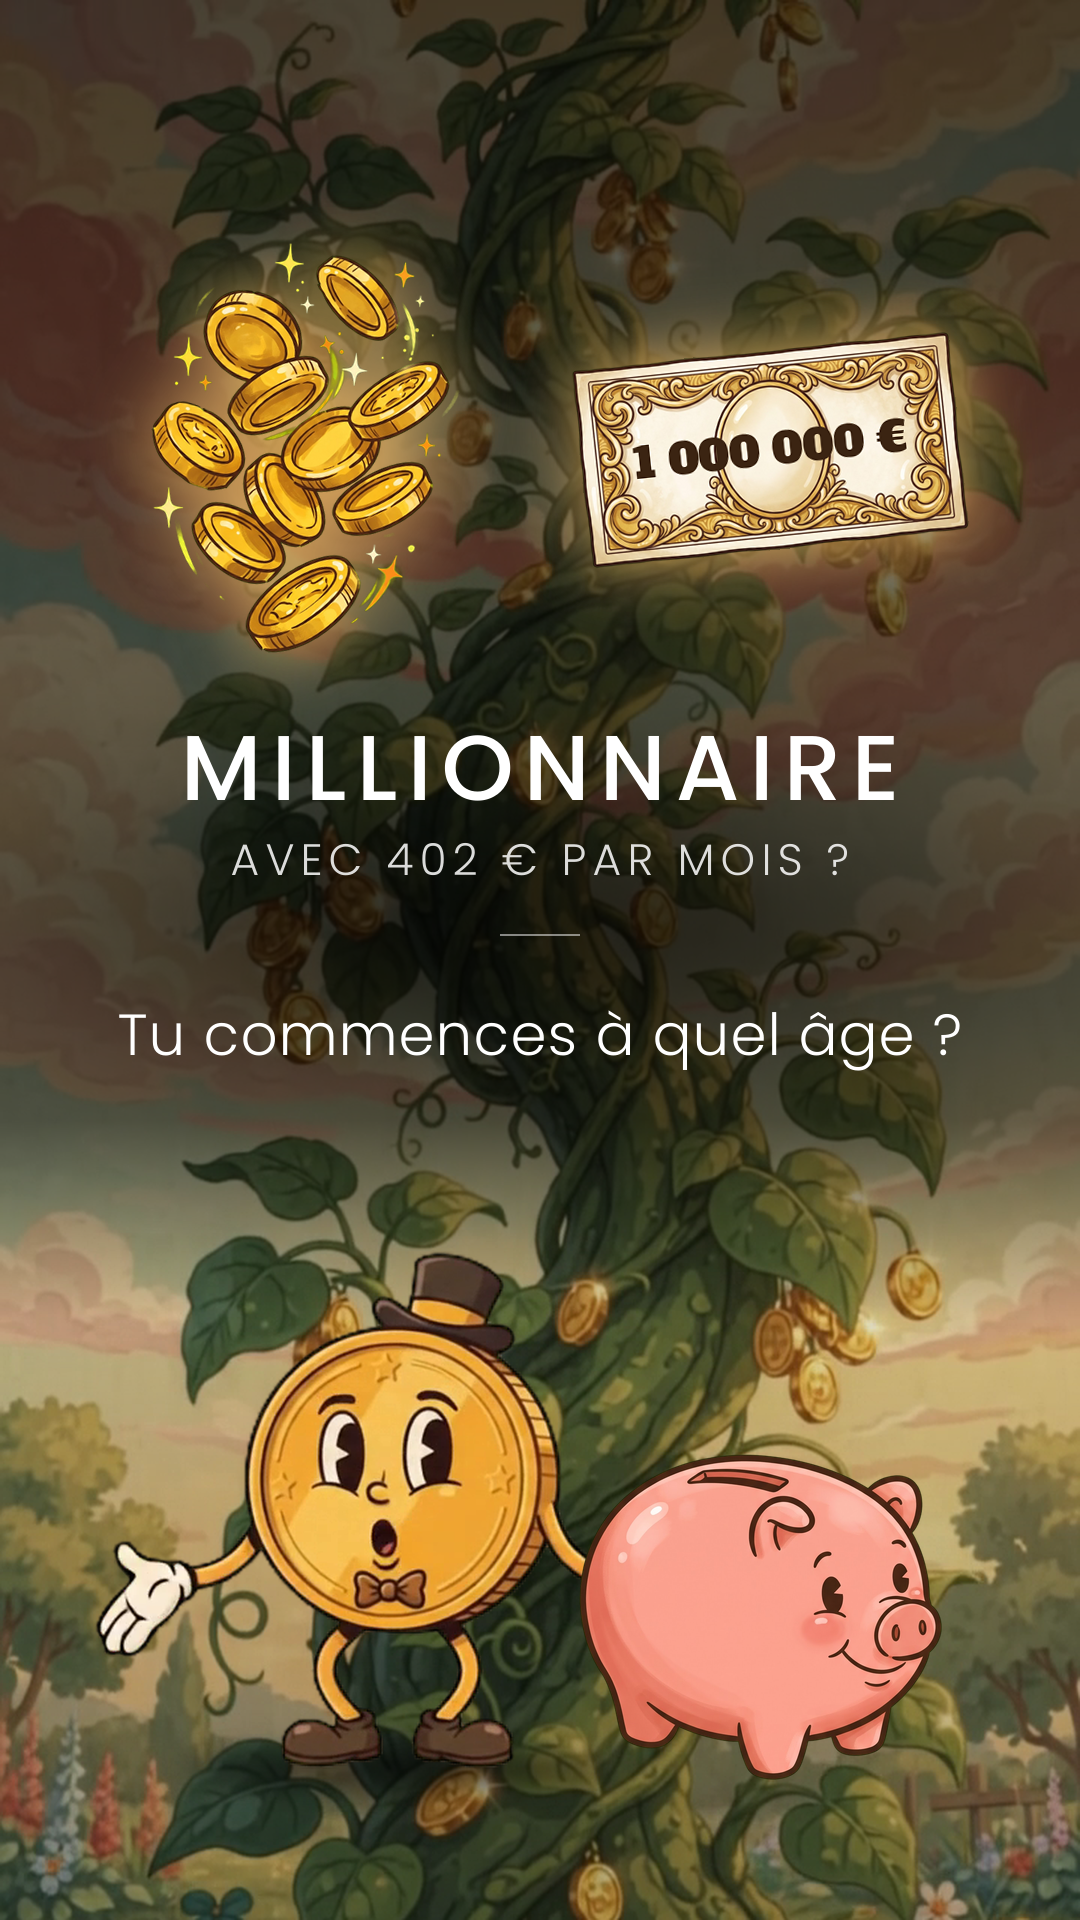
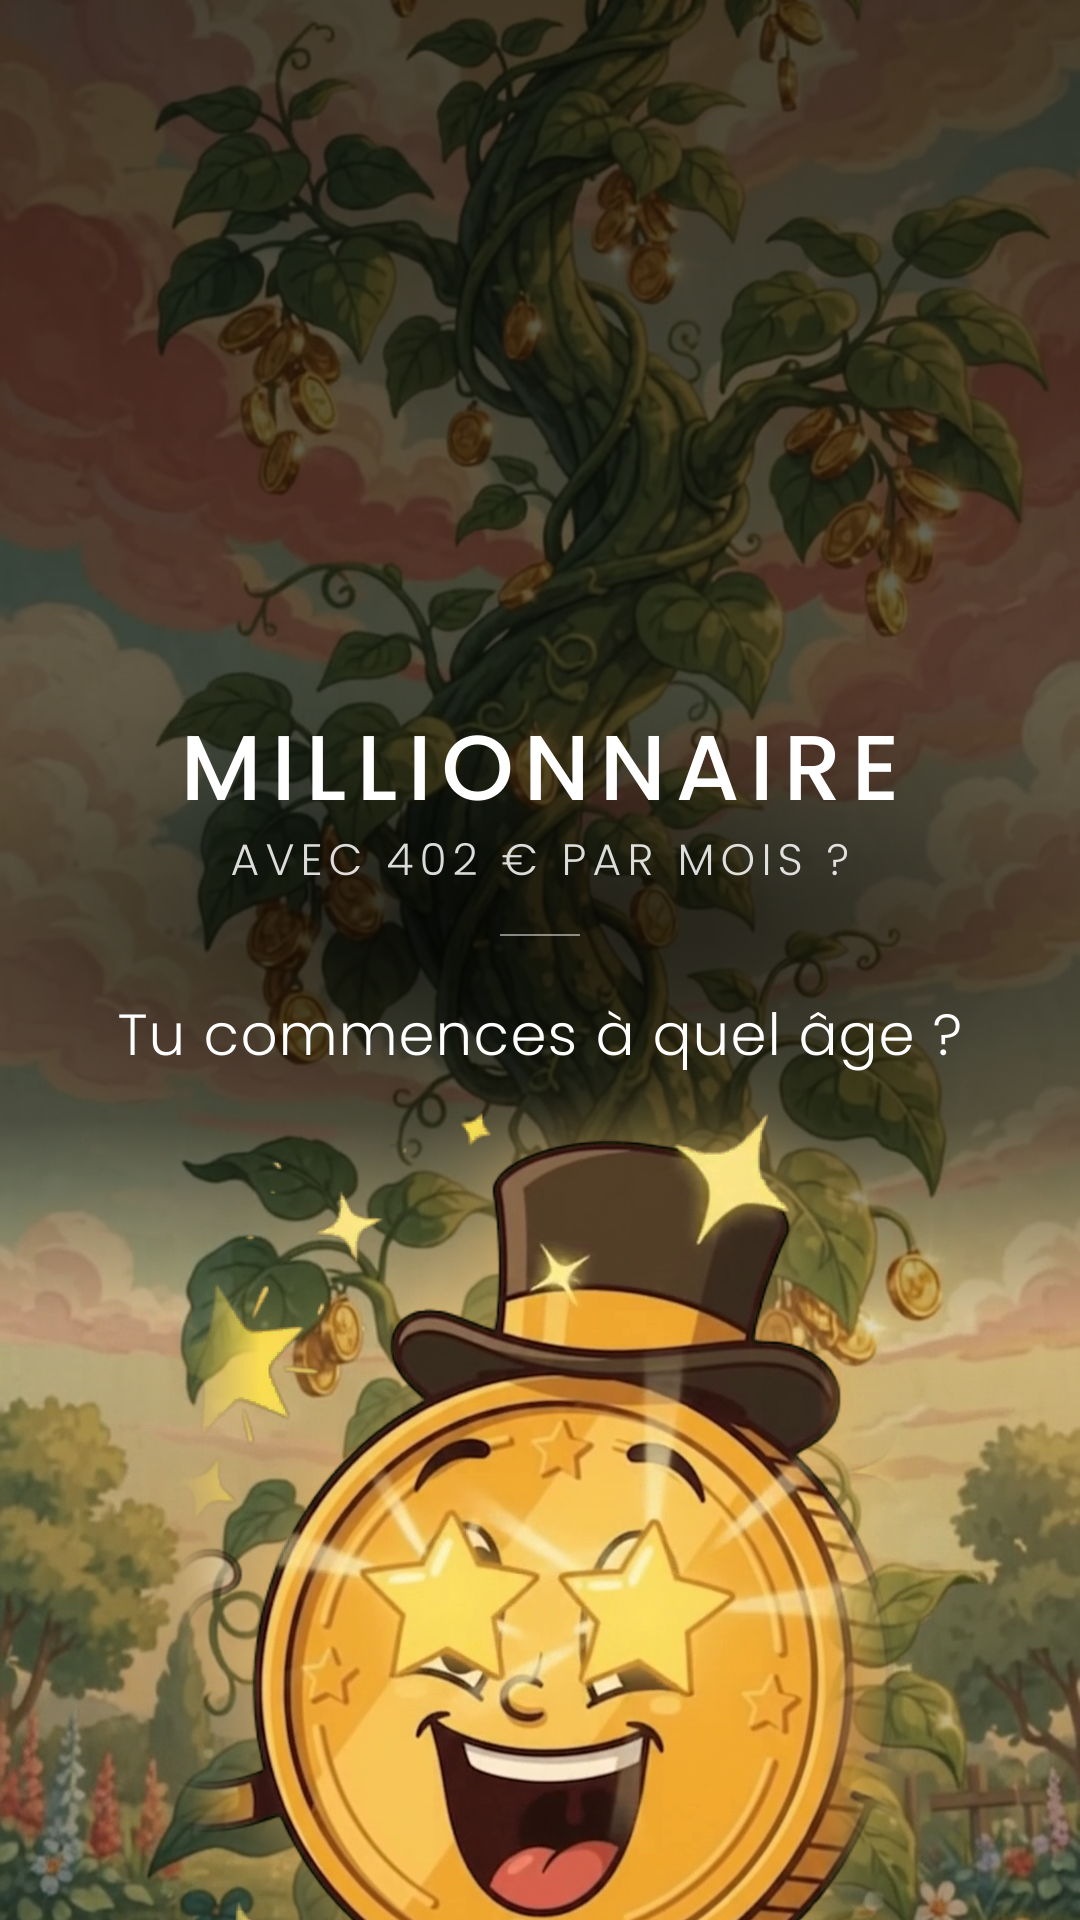
Couverture 14/11 : Mister Coin en gros plan aux yeux en étoiles, sans accessoires
Claude-Session: https://claude.ai/code/session_01VFT2ZKYV9NwmFvCsfcTKi7

diff --git a/episodes/2026-11-14_millionnaire/couverture.py b/episodes/2026-11-14_millionnaire/couverture.py
@@ -1,5 +1,5 @@
-"""Couverture « millionnaire » : haricot magique en pièces d'or au coucher du soleil (assombri en haut), pluie de pièces et tirelire en haut
-avec halo, titre + « AVEC 402 € PAR MOIS », question, Mister Coin à côté d'une tirelire."""
+"""Couverture « millionnaire » : haricot magique en pièces d'or au coucher du soleil (assombri en haut), titre + « AVEC 402 € PAR MOIS ? »,
+question, Mister Coin en gros plan aux yeux en étoiles en bas (comme dans la vidéo)."""
 import cairo, math, numpy as np, sys, os, subprocess
 HERE = os.path.dirname(os.path.abspath(__file__)); ROOT = os.path.abspath(os.path.join(HERE, '..', '..'))
 sys.path.insert(0, f'{ROOT}/lib'); sys.path.insert(0, f'{ROOT}/mister_coin')
@@ -26,6 +26,7 @@ def _q(c, s_, y, fam, size, *a, **k):
     return _put(c, s_, y, fam, size, *a, **k)
 cards.put = _q
 import veo_coin as VC
+GP_N, GP_W, GP_Y = int(os.environ.get('GP_N', 55)), int(os.environ.get('GP_W', 740)), int(os.environ.get('GP_Y', 1110))
 for slot, name in ((False, 'couverture.png'), (True, 'couverture_emplacement_logo.png')):
     path = f'{HERE}/{name}'; cards.card("MILLIONNAIRE", slot, path, sub=("AVEC 402 € PAR MOIS ?",))
     if slot: continue
@@ -34,21 +35,15 @@ for slot, name in ((False, 'couverture.png'), (True, 'couverture_emplacement_log
         a, m = VC._key(np.asarray(still(src, n, dst)))
         ch = Image.fromarray(np.clip(a, 0, 255).astype(np.uint8)).convert("RGBA"); ch.putalpha(Image.fromarray((m*255).astype(np.uint8))); ch = ch.crop(ch.getbbox())
         return ch.resize((int(ch.width*h/ch.height), h), Image.LANCZOS)
-    feet = 1770
-    for ch, cx in ((cut(f'{ROOT}/mister_coin/veo/classique_parle_enthousiaste.mp4', 40, f'{TMP}/coin_couv.png', 520), 400),):
-        sh = Image.new('L', (W, H), 0); ImageDraw.Draw(sh).ellipse((cx-ch.width*.35, feet-16, cx+ch.width*.35, feet+14), fill=170)
-        im.paste((0, 0, 0, 255), (0, 0), sh.filter(ImageFilter.GaussianBlur(14)))
-        im.alpha_composite(ch, (int(cx-ch.width/2), feet-ch.height))
-    ld = Image.open(f'{HERE}/props/tirelire.png').convert('RGBA'); ld = ld.resize((int(ld.width*330/ld.height), 330), Image.LANCZOS); im.alpha_composite(ld, (760-ld.width//2, feet-ld.height+12))
-    def prop(n, w):
-        p = Image.open(f'{HERE}/props/{n}.png').convert('RGBA'); p = p.crop(p.getbbox()); return p.resize((w, int(p.height*w/p.width)), Image.LANCZOS)
-    for p, cx, rot in ((prop('pluie_pieces', 300), 300, -8), (prop('billet', 380), 770, 6)):
-        if p.width == 380:                                                         # le billet porte le million
-            dr = ImageDraw.Draw(p); from PIL import ImageFont; ft = ImageFont.truetype("/root/.fonts/AlfaSlabOne-Regular.ttf", 42); tx = "1 000 000 €"
-            bb = dr.textbbox((0, 0), tx, font=ft); dr.text(((p.width-bb[2])/2, (p.height-bb[3])/2-6), tx, font=ft, fill=(59, 36, 18))
-        p = p.rotate(rot, expand=True, resample=Image.BICUBIC)
-        gl = Image.new('RGBA', (p.width+200, p.height+200), 0); gl.alpha_composite(p, (100, 100)); a_ = gl.getchannel('A').filter(ImageFilter.GaussianBlur(34))
-        halo = Image.new('RGBA', gl.size, (255, 200, 110, 0)); halo.putalpha(a_.point(lambda v: int(v*.85)))
-        cy = 450; im.alpha_composite(halo, (cx-gl.width//2, cy-gl.height//2)); im.alpha_composite(p, (cx-p.width//2, cy-p.height//2))
+    # Mister Coin en gros plan, les yeux en étoiles (image du gros plan de la vidéo), le bas de la pièce sort du cadre
+    a_, m_ = VC._key(np.asarray(still(f'{HERE}/coin/gros_plan_etoiles.mp4', GP_N, f'{TMP}/coin_etoiles_couv.png')))
+    ch = Image.fromarray(np.clip(a_, 0, 255).astype(np.uint8)).convert("RGBA"); ch.putalpha(Image.fromarray((m_*255).astype(np.uint8)))
+    ch = ch.resize((GP_W, int(ch.height*GP_W/ch.width)), Image.LANCZOS)
+    fx = np.clip(np.minimum(np.arange(GP_W), GP_W-1-np.arange(GP_W))/90, 0, 1)**1.5   # bords gauche et droit du clip fondus : pas de coupe nette
+    ch.putalpha(Image.fromarray((np.asarray(ch.getchannel('A')).astype(np.float32)*fx[None, :]).astype(np.uint8)))
+    top = ch.getchannel('A').getbbox()[1]; x0 = (W-ch.width)//2; y0 = GP_Y-top
+    gl = Image.new('RGBA', (W, H), 0); gl.alpha_composite(ch, (x0, y0)) if y0 >= 0 else gl.alpha_composite(ch.crop((0, -y0, ch.width, ch.height)), (x0, 0))
+    halo = Image.new('RGBA', (W, H), (255, 200, 110, 0)); halo.putalpha(gl.getchannel('A').filter(ImageFilter.GaussianBlur(40)).point(lambda v: int(v*.6)))
+    im.alpha_composite(halo); im.alpha_composite(gl)
     im.convert('RGB').save(path)
 print('ok')
